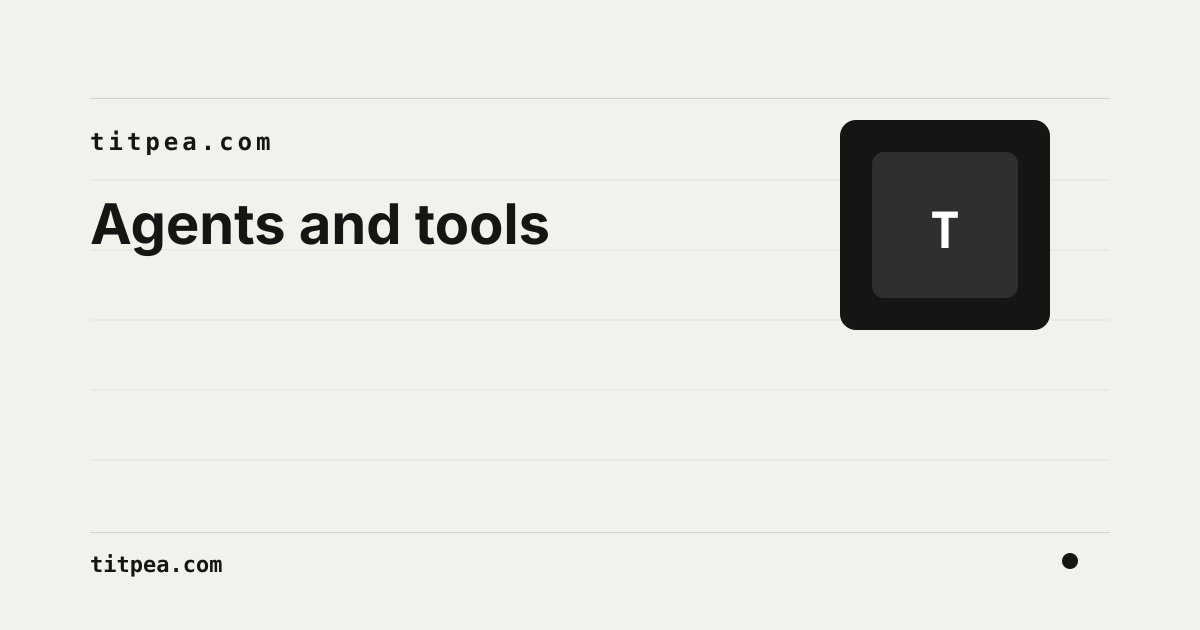
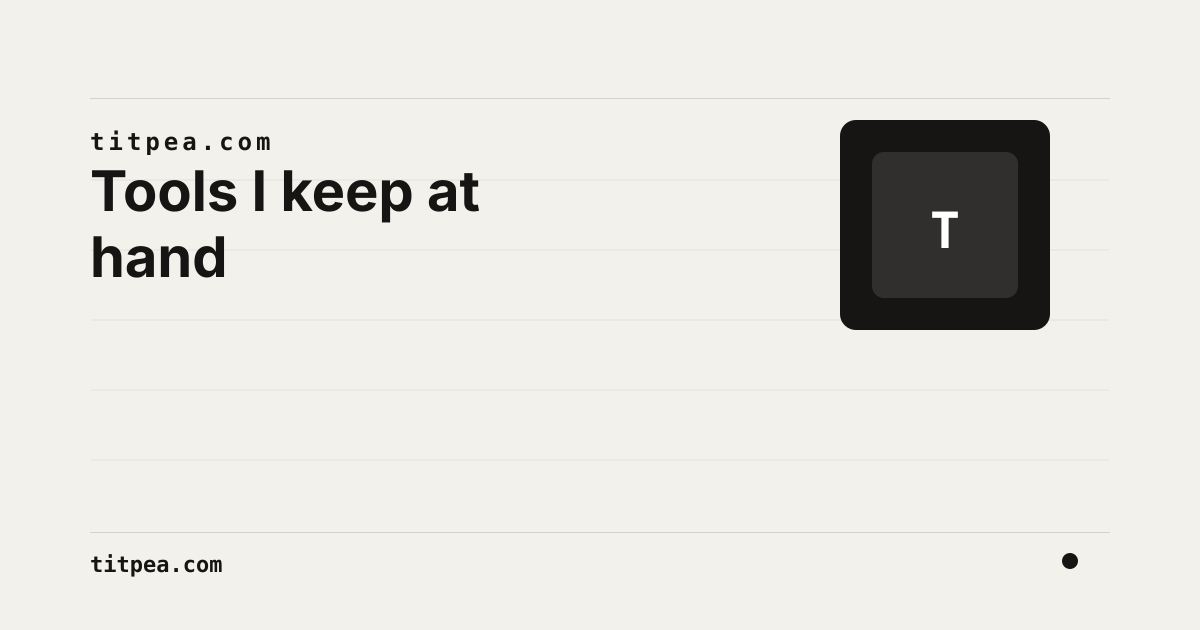
Give Home and About a first-person speaker.
Keep the home heading at --title-home and the featured pair as the first screen. Change the sentences so the page is a person with a shelf, not a taxonomy index. About keeps the same facts in first person. Short product pages lose cards that only restated the lead.

Changed region(s): [[0.0617, 0.2714, 0.4625, 0.4524]]

diff --git a/src/content/i18n/siteCopy.ts b/src/content/i18n/siteCopy.ts
@@ -2,13 +2,13 @@ export const ui = {
   en: {
     productIndex: "hxddh / products",
     homeMetaTitle: "Titpea — Agents and tools by hxddh",
-    homeTitle: "Agents and tools",
-    homeDescription: "Agents and tools for S3 storage, reading, and information discovery by hxddh.",
-    homeLead: "Built for storage investigations first; reading and discovery tools stay on the same shelf.",
+    homeTitle: "Tools I keep at hand",
+    homeDescription: "Tools hxddh keeps at hand for S3 storage investigations, reading, and information discovery.",
+    homeLead: "Cloud object storage is the day job. Investigations, reading, and discovery stay on the same shelf.",
     featuredLabel: "Featured",
     featuredTitle: "Storage investigations, and reading with a trail",
     moreToolsLabel: "More",
-    moreToolsTitle: "The storage line, and tools I keep",
+    moreToolsTitle: "The rest of the shelf",
     lineStorageLabel: "Storage",
     linePersonalLabel: "Tools",
     aboutTitle: "About",
@@ -17,13 +17,13 @@ export const ui = {
     aboutLead: "Cloud object storage is the day job; Titpea is the shelf of tools I keep for myself.",
     contactLabel: "Contact links",
     profileLabel: "Work",
-    profileTitle: "Background",
+    profileTitle: "The day job",
     profileBody: [
-      "Years in cloud object storage taught me to keep evidence close to conclusions. The storage products here come from that habit.",
-      "The rest are tools and research I use myself. I build and maintain all of them alone.",
+      "I work on cloud object storage. The habit I kept is to put checks next to conclusions, and keys on the machine that ran the check. The storage products here come from that.",
+      "The rest are tools I actually use. I build and maintain all of them alone.",
     ],
-    focusLabel: "Principles",
-    focusTitle: "Boundaries I keep across the products",
+    focusLabel: "Boundaries",
+    focusTitle: "Your state, evidence you can check",
     focusBody: [
       "Application state stays on your device or in a Git repository you control, rather than locking it into a service I operate. Conclusions stay next to the checks, source material, or run records that produced them, so you can verify them.",
       "Investigation products do not expose storage-mutation tools; downloads, large scans, and evidence imports wait for approval. Source-available products can be reviewed directly; the others state their data flow and privacy boundary.",
@@ -32,13 +32,13 @@ export const ui = {
   zh: {
     productIndex: "hxddh / 产品",
     homeMetaTitle: "Titpea — Agent 和工具",
-    homeTitle: "Agent 和工具",
-    homeDescription: "面向 S3 生态、阅读与信息发现的 Agent 和工具。",
-    homeLead: "先做存储排查；阅读和发现用的工具放在同一架上。",
+    homeTitle: "留在手边的工具",
+    homeDescription: "hxddh 留在手边的工具：对象存储排查、阅读与信息发现。",
+    homeLead: "白天做对象存储。排查、阅读、发现，都放在同一架上。",
     featuredLabel: "重点",
     featuredTitle: "排查存储，阅读留痕",
     moreToolsLabel: "其他",
-    moreToolsTitle: "存储这一线，以及手头的工具",
+    moreToolsTitle: "其余也在这架上",
     lineStorageLabel: "存储",
     linePersonalLabel: "工具",
     aboutTitle: "关于",
@@ -47,13 +47,13 @@ export const ui = {
     aboutLead: "白天做云对象存储；Titpea 是我自己要留在手边的工具架。",
     contactLabel: "联系方式",
     profileLabel: "在做什么",
-    profileTitle: "背景",
+    profileTitle: "白天做存储",
     profileBody: [
-      "多年云对象存储工作，让我习惯把检查和结论放在一起。这边的存储产品由此而来。",
-      "其余是自己会用到的工具和研究。全部由我一人开发和维护。",
+      "白天做云对象存储。习惯是把检查和结论放在一起，密钥和证据留在跑检查的那台机器上。这边的存储产品都从这条习惯出来。",
+      "其余是我自己会用到的工具。全部由我一人做、一人维护。",
     ],
-    focusLabel: "原则",
-    focusTitle: "做这些产品时坚持的边界",
+    focusLabel: "我怎么做",
+    focusTitle: "状态在你那边，结论可以核对",
     focusBody: [
       "应用状态留在你的设备，或你控制的 Git 仓库里，不锁进我维护的服务。结论旁边保留得出它的检查、原文或运行记录，可以核对，而不是只能相信。",
       "排查产品不提供修改存储的工具；下载、大扫描和证据导入由你确认。提供源码的产品可以直接审阅；其他产品写清数据去向与隐私边界。",

diff --git a/src/content/products/douban-movie-rating.ts b/src/content/products/douban-movie-rating.ts
@@ -26,17 +26,11 @@ export const doubanMovieRatingProduct: BrowserExtensionProduct = {
       positioningLabel: "Context, not a new site",
       positioning: [
         {
-          title: "Other ratings in place",
-          body: "You browse Douban movie pages but want quick context from IMDb, Rotten Tomatoes, and Metacritic before deciding what to watch.",
-          intent: "fit",
-          surface: "browser",
-          priority: "primary",
-        },
-        {
           title: "Douban stays the page",
           body: "It does not replace Douban ratings; it adds context from other rating sources.",
           intent: "boundary",
           surface: "browser",
+          priority: "primary",
         },
       ],
       faqLabel: "Matching and sources",
@@ -63,17 +57,11 @@ export const doubanMovieRatingProduct: BrowserExtensionProduct = {
       positioningLabel: "补充对照，不另开站点",
       positioning: [
         {
-          title: "想在页内对照其他评分",
-          body: "浏览豆瓣电影页时，想顺手看看 IMDb、Rotten Tomatoes 或 Metacritic 的参考评分。",
-          intent: "fit",
-          surface: "browser",
-          priority: "primary",
-        },
-        {
           title: "豆瓣仍是这一页",
           body: "它不替代豆瓣评分，只补充其他来源的参考信息。",
           intent: "boundary",
           surface: "browser",
+          priority: "primary",
         },
       ],
       faqLabel: "匹配与来源",

diff --git a/src/content/products/easier-bookmarks.ts b/src/content/products/easier-bookmarks.ts
@@ -19,13 +19,6 @@ export const easierBookmarksProduct: BrowserExtensionProduct = {
       positioningLabel: "Chrome's tree, side panel",
       positioning: [
         {
-          title: "Menus are too small",
-          body: "Your bookmark tree has outgrown Chrome's small menus and you want one side panel for finding and organizing it.",
-          intent: "fit",
-          surface: "browser",
-          priority: "primary",
-        },
-        {
           title: "Works with Chrome's bookmark tree",
           body: "It works with the bookmarks and folders already in Chrome. There is no separate library to import, account to create, or sync service of its own; Chrome sync remains whatever you already configured in Chrome.",
           intent: "boundary",
@@ -51,13 +44,6 @@ export const easierBookmarksProduct: BrowserExtensionProduct = {
       proof: [],
       positioningLabel: "Chrome 书签树，侧边栏",
       positioning: [
-        {
-          title: "书签菜单已经不够用",
-          body: "Chrome 的小菜单已经装不下你的书签树，想在一个侧边栏里完成查找和整理。",
-          intent: "fit",
-          surface: "browser",
-          priority: "primary",
-        },
         {
           title: "沿用 Chrome 书签树",
           body: "它管理 Chrome 里已有的书签和文件夹，不需要导入另一套资料库，也不用注册账号或另接同步服务；Chrome 自身同步仍按你的浏览器设置执行。",

diff --git a/src/content/products/world-clock.ts b/src/content/products/world-clock.ts
@@ -26,17 +26,11 @@ export const worldClockProduct: BrowserExtensionProduct = {
       positioningLabel: "Cities you choose",
       positioning: [
         {
-          title: "Remote work, travel, cross-region calls",
-          body: "You need city times during remote work, travel planning, or cross-region conversations.",
-          intent: "fit",
-          surface: "browser",
-          priority: "primary",
-        },
-        {
           title: "No location, no calendar",
           body: "It shows the city times you choose. It does not read your location, calendar, or meetings.",
           intent: "boundary",
           surface: "browser",
+          priority: "primary",
         },
       ],
     },
@@ -56,17 +50,11 @@ export const worldClockProduct: BrowserExtensionProduct = {
       positioningLabel: "你选的城市",
       positioning: [
         {
-          title: "远程协作、出行、跨地区沟通",
-          body: "远程协作、旅行安排、跨地区沟通前，想快速确认几个城市现在几点、是不是工作时间。",
-          intent: "fit",
-          surface: "browser",
-          priority: "primary",
-        },
-        {
           title: "不读位置，也不读日历",
           body: "只显示你选的城市时间，不读取你的位置、日历或会议。",
           intent: "boundary",
           surface: "browser",
+          priority: "primary",
         },
       ],
     },

diff --git a/src/content/products/pagewise.ts b/src/content/products/pagewise.ts
@@ -34,12 +34,6 @@ export const pagewiseProduct: DocumentAgentProduct = {
           intent: "capability",
           surface: "agent",
         },
-        {
-          title: "Preview, outline, one thread per document",
-          body: "Preview with thumbnails, zoom, in-doc search, and outline or bookmark tree. One chat thread per document, saved locally, with Markdown export.",
-          intent: "capability",
-          surface: "artifact",
-        },
       ],
       workflowLabel: "From file to citation",
       workflow: [
@@ -127,12 +121,6 @@ export const pagewiseProduct: DocumentAgentProduct = {
           body: "有文本层就走文本层；扫描或图片页走视觉模型。对 Agent 来说，调用的是同一套页级工具。",
           intent: "capability",
           surface: "agent",
-        },
-        {
-          title: "预览、大纲，一文档一条线程",
-          body: "预览含缩略图、缩放、文内搜索与大纲或书签树。一文档一线程，本地持久化，可导出 Markdown。",
-          intent: "capability",
-          surface: "artifact",
         },
       ],
       workflowLabel: "从打开到引用",

diff --git a/DESIGN.md b/DESIGN.md
@@ -31,6 +31,8 @@ Do not ship any of these. Naming them is the point; vague “keep it clean” is
 - Product `h1` as the product name; the name stays in the eyebrow, the slogan is the heading
 - Home hero CTAs that duplicate the featured pair
 - Restating the hero headline as a closing slogan
+- Home heading as a taxonomy label (`Agents and tools`) to look quieter than a speaker
+- About as a policy memo (`Background` / `Principles`) instead of the same person speaking
 - FAQ as a collapsed accordion, or the section directory as sticky pills
 - Card titles that could sit on any product (`Local by design`, `What it isn't`, `Current platforms`)
 - A dark-theme redesign as a “refresh”
@@ -58,12 +60,12 @@ Do not compensate by making a sterile anti-design: black, white, thin rules, and
 ## Home
 
 - The first screen is the featured pair, not a slogan block with duplicate CTAs. Home hero CTA count is 0.
-- The home heading is a quiet index line (`--title-home`). The featured heading names the two jobs in the photographs.
+- The home heading stays `--title-home` in size. The sentence can have a speaker; it is not a taxonomy label. The featured heading names the two jobs in the photographs.
 - Featured product names outrank the catalog: `--text-featured-name` under the photograph, `--text-catalog-name` in the list.
 - Featured screenshots keep their native proportion. Align the pair by the caption baseline, not by cropping both into a 3:2 tile. Each photograph is a print figure: square hairline, no fill, no radius, no drop shadow.
 - Featured captions are the product name; they do not paraphrase the lead.
 - Catalog roles use sans, not uppercase mono. The remaining products are a two-column text list with hairline separators. The catalog heading names the work, not the file formats.
-- About is a person and the boundaries they keep, not a second product index.
+- About is the same person speaking in first person — not a policy memo, and not a second product index. Keep the facts; change the temperature of the headings.
 
 ## Product Hero
 
@@ -100,6 +102,7 @@ Do not compensate by making a sterile anti-design: black, white, thin rules, and
 - List body is `--text-list-body` (16px / 1.65). Keep lead at 18px and kickers at 12px. Do not shrink the product/About display size to make a page feel lighter.
 - The first viewport is the argument (product: slogan and object; home: the featured pair). Later FAQ, deep-dive, and tables are the audit path. Do not add a second summary that restates the same answer at equal prominence.
 - Product descriptions should be compact and factual. Avoid generic phrases that could describe any developer tool.
+- Home and About share a speaker. Do not flatten the home heading into a catalog index to look quieter. On short product pages, delete equal-weight cards that only restate the lead; keep the opinionated titles.
 - Chinese copy should read as natural technical Chinese. Keep command names and established terms such as `skill` and `trace` when translation reduces clarity.
 - `mono` is for meta, commands, terminals, and data labels. Navigation, buttons, kickers, eyebrows, footer, menu group titles, catalog roles, and the product section directory use `sans`. Navigation group labels stay short.
 
